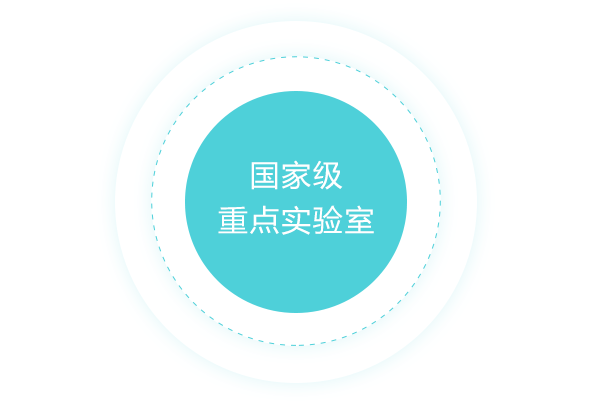
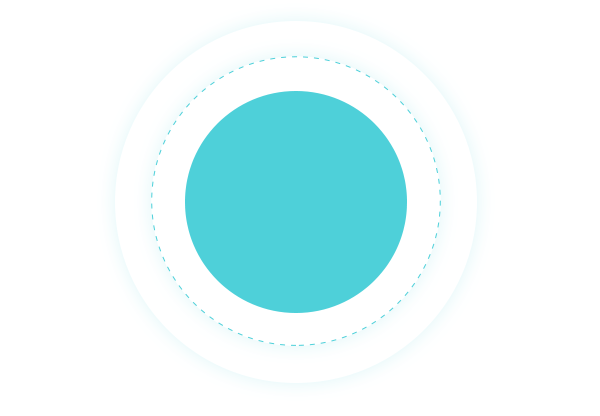
重点

Changed region(s): [[0.36, 0.5, 0.63, 0.5625], [0.42, 0.375, 0.57, 0.4688]]

diff --git a/pcitc-stp/src/main/webapp/layuiadmin/style/second.css b/pcitc-stp/src/main/webapp/layuiadmin/style/second.css
@@ -57,6 +57,8 @@ h3{font-size: 18px;/*font-weight: bold;*/color: #000000;height: 30px;line-height
 .dateInputNew input{min-width: 30% !important;}
 .searchBox{margin: 0;}
 /*重点实验室*/
+.layui-country-p{ position: absolute;width:99.7%;text-align:center;
+    top: 47%;font-size: 30px;color: white;}
 .layui-main-lab .layui-card-header-lab{height: 64px;line-height: 48px;text-indent: 28px;width: 215px;}
 .layui-main-lab .layui-card-header-l{font-size: 18px; color: #4ed0d9;
     background: url("/layuiadmin/layui/images/icon-lab-l.png") no-repeat;}

diff --git a/pcitc-stp/src/main/webapp/chart/lab.html b/pcitc-stp/src/main/webapp/chart/lab.html
@@ -23,6 +23,7 @@
                 </div>
                 <div class="layui-card-body btn-function">
                     <div class="layui-country">
+                        <p class="layui-country-p">重点研发机构</p>
                         <div class="layui-country-div">
                             <div>
                                 <span class="layui-text-span">依托单位：北京化工研究院</span>
